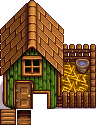
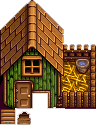
fix: tiling logic

diff --git a/src/farmTile/TileObjectManager.java b/src/farmTile/TileObjectManager.java
@@ -22,15 +22,15 @@ public class TileObjectManager {
     public void getTileObjectImages(){
         UtilityTool uTool = new UtilityTool();
         try {
-            BufferedImage image = ImageIO.read(getClass().getResourceAsStream("/tiles/#949.png"));
+            BufferedImage image = ImageIO.read(getClass().getResourceAsStream("/tiles/Tilled.png"));
             image = uTool.scaleImage(image, gp.tileSize, gp.tileSize);
             images.put("Tilled", image);
 
-            image = ImageIO.read(getClass().getResourceAsStream("/tiles/#949.png"));
+            image = ImageIO.read(getClass().getResourceAsStream("/tiles/Planted.png"));
             image = uTool.scaleImage(image, gp.tileSize, gp.tileSize);
             images.put("Planted", image);
     
-            image = ImageIO.read(getClass().getResourceAsStream("/tiles/#949.png"));
+            image = ImageIO.read(getClass().getResourceAsStream("/tiles/Harvestable.png"));
             image = uTool.scaleImage(image, gp.tileSize, gp.tileSize);
             images.put("Harvestable", image);
             

diff --git a/src/main/KeyHandler.java b/src/main/KeyHandler.java
@@ -164,6 +164,8 @@ public class KeyHandler implements KeyListener{
                 int tileX = pixelX / gp.tileSize;
                 int tileY = pixelY / gp.tileSize;
 
+                if (gp.tileM.mapTileNum[tileX][tileY] != 908) return;
+
                 int worldX = tileX * gp.tileSize;
                 int worldY = tileY * gp.tileSize;
                 
@@ -186,6 +188,10 @@ public class KeyHandler implements KeyListener{
                     plantedTile.location.worldY = worldY;
                     gp.tiles.put(tileLocation, plantedTile);
                     gp.player.planting();
+                }
+                else if (existing.type.equals("Planted")){
+                    PlantedTile plantedTile = (PlantedTile) existing;
+                    if (!plantedTile.isReadyToHarvest()) return;
                 }
                 else {
                     HarvestableTile harvestableTile = new HarvestableTile((PlantedTile) existing);

diff --git a/src/main/AssetSetter.java b/src/main/AssetSetter.java
@@ -97,7 +97,7 @@ public void setObject() {
                 if (gp.tileM.mapTileNum[i][j] != 293 && gp.tileM.mapTileNum[i][j] != 294 &&
                     gp.tileM.mapTileNum[i][j] != 370 && gp.tileM.mapTileNum[i][j] != 375 ) return false;
 
-                if (i == 5) return false;
+                if (i == 6) return false;
             }
         }
         return true;

diff --git a/src/entity/Player.java b/src/entity/Player.java
@@ -73,8 +73,8 @@ public class Player extends Entity{
     }
 
     public void setDefaultValues() {
-        worldX = gp.tileSize * 10;
-        worldY = gp.tileSize * 7;
+        worldX = gp.tileSize * 15;
+        worldY = gp.tileSize * 5;
         speed = 4;
         direction = "down";
         energy = 100;
